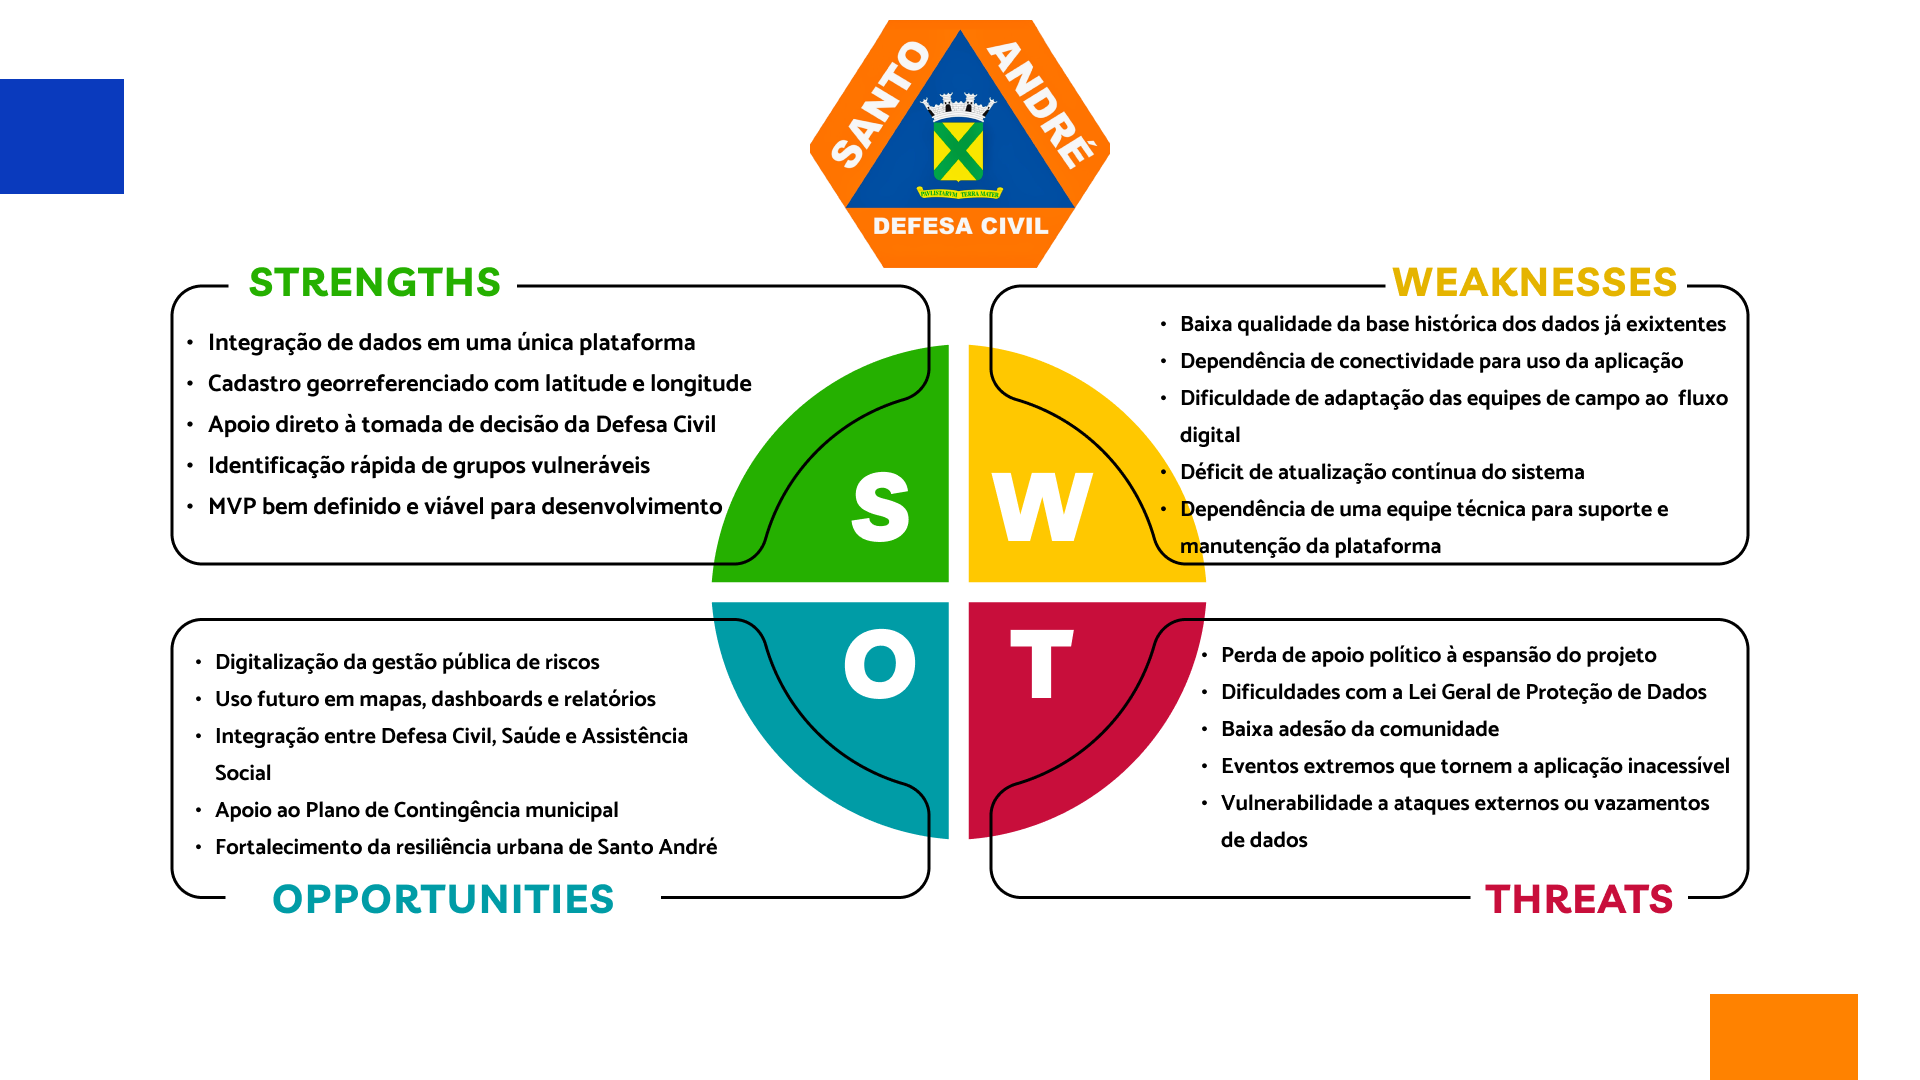
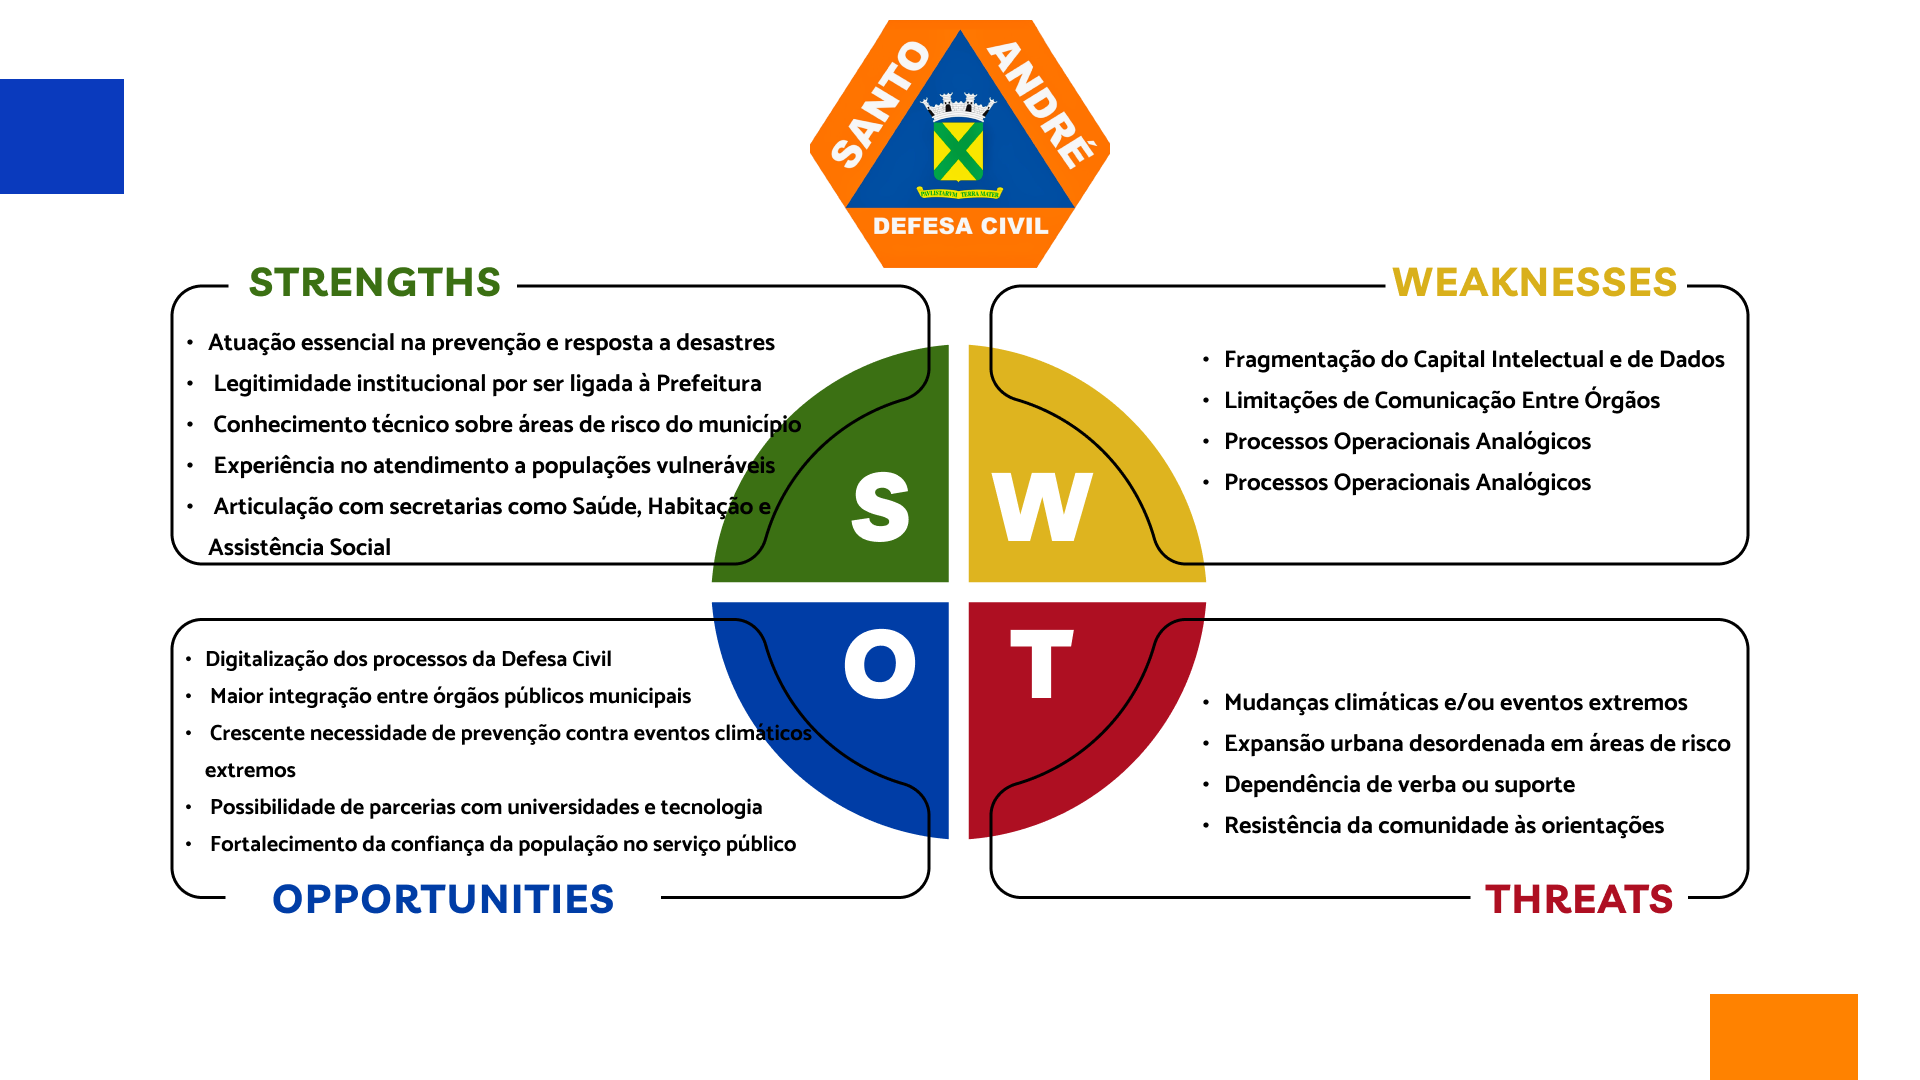
doc(fix): imagem swot e texto WT

Changed region(s): [[0.0938, 0.2444, 0.9062, 0.8556], [0.125, 0.2444, 0.2812, 0.275]]

diff --git a/documentos/wad.md b/documentos/wad.md
@@ -93,23 +93,28 @@ Além disso, o funcionamento eficaz do sistema proposto depende diretamente da c
 #### Strengths
 
 
+
 #### Weaknesses
 
-A **base histórica de dados** apresenta limitações importantes, pois pode conter informações incompletas, inconsistentes ou desatualizadas, especialmente quando oriunda de registros físicos ou sistemas legados. Isso compromete a confiabilidade inicial do georreferenciamento e pode impactar a qualidade das análises e decisões tomadas a partir desses dados.
+A Defesa Civil de Santo André possui alta **dependência de processos analógicos** e do **conhecimento de agentes veteranos**. A falta de um repositório digital centralizado fragmenta as informações e compromete a memória técnica da instituição.
 
-Além disso, a **dependência de conectividade** é um fator crítico, já que a aplicação web pode ter seu desempenho reduzido em áreas com baixa cobertura de internet, comuns em regiões de risco. Soma-se a isso a **curva de aprendizado das equipes de campo**, que podem enfrentar dificuldades na adoção do sistema.
 
-Por fim, há riscos relacionados à **manutenção e atualização contínua**. A ausência de processos estruturados pode levar à obsolescência dos dados, enquanto a **dependência de uma equipe técnica** reduzida pode gerar sobrecarga e atrasos em correções ou melhorias.
+Além disso, a **comunicação fragmentada** entre setores impede o fluxo ágil de informações com as pastas de Saúde e Assistência Social. Essa lacuna inviabiliza o acesso a um perfil socioeconômico atualizado das populações em áreas de risco.
+
+
+O uso de ferramentas como planilhas físicas gera **barreiras operacionais críticas**. Essa limitação reduz a velocidade de resposta e a eficiência na gestão de abrigos e logística durante crises severas.
 
 #### Opportunities
 
 #### Threats
 
-Entre as ameaças, destaca-se a **descontinuidade administrativa**, que pode comprometer o projeto em caso de mudanças políticas ou redução de investimentos e impactar diretamente a sustentabilidade e evolução da solução ao longo do tempo.
+**Eventos climáticos extremos e imprevisíveis** desafiam a capacidade instalada de resposta do município. O aumento da intensidade das chuvas pode saturar os planos de contingência atuais, superando os limites operacionais da instituição.
 
-Outro ponto crítico envolve questões legais, especialmente no que se refere à **proteção de dados sensíveis**. A não conformidade com a Lei Geral de Proteção de Dados pode resultar em restrições operacionais ou até a interrupção do sistema, além de afetar a confiança dos usuários.
 
-Riscos como a **baixa adesão da comunidade** também dificultam a coleta de dados, além da ocorrência de **eventos extremos**, comprometendo toda a infraestrutura. Por fim, **ameaças de cibersegurança** podem expor informações estratégicas, gerando impactos significativos.
+Além disso, a **expansão urbana desordenada** e a **concentração em áreas de encosta** tornam o mapeamento de riscos rapidamente obsoleto. A dinâmica social dessas ocupações dificulta a manutenção de dados precisos para ações preventivas.
+
+
+**Instabilidades orçamentárias** e a **baixa adesão comunitária aos protocolos de evacuação** também representam riscos. Tais fatores comprometem a continuidade de investimentos e a eficácia das salvaguardas em momentos de desastre.
 
 
 ### 2.1.3. Solução (sprints 1 a 5)
